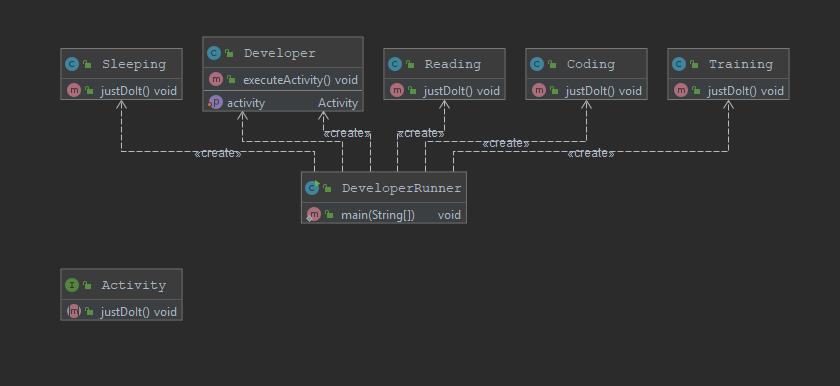
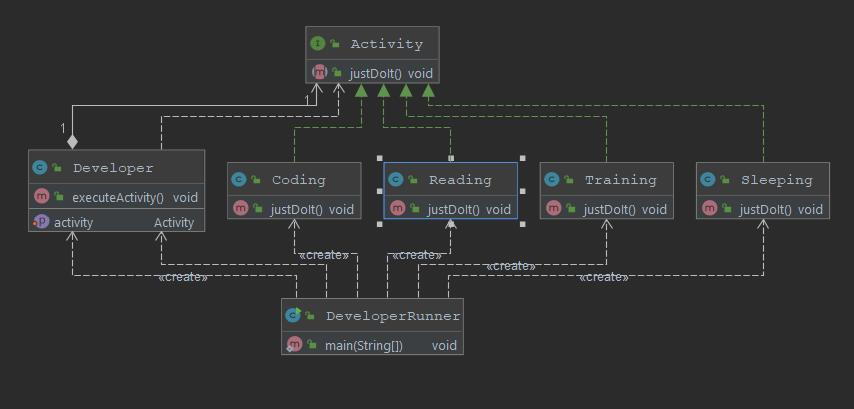
strategy refactor

diff --git a/src/main/java/info/vladyslav/codeLibrary/u01core/core_09_jfc/jfc_01_swing/swing_01_callback/SomeClass.java b/src/main/java/info/vladyslav/codeLibrary/u01core/core_09_jfc/jfc_01_swing/swing_01_callback/SomeClass.java
@@ -1,0 +1,23 @@
+package info.vladyslav.codeLibrary.u01core.core_09_jfc.jfc_01_swing.swing_01_callback;
+
+import javax.swing.*;
+
+public class SomeClass {
+    // создаем колбек и его метод
+    interface Callback{
+        void callingBack();
+    }
+
+    Callback callback;
+
+    public void registerCallBack(Callback callback){
+        this.callback = callback;
+    }
+
+    void doSomething(){
+        JOptionPane.showMessageDialog(null, "Выполняется работа");
+
+        // вызываем метод обратного вызова
+        callback.callingBack();
+    }
+}

diff --git a/src/main/java/info/vladyslav/codeLibrary/u01core/core_09_jfc/jfc_01_swing/swing_01_callback/Main.java b/src/main/java/info/vladyslav/codeLibrary/u01core/core_09_jfc/jfc_01_swing/swing_01_callback/Main.java
@@ -1,0 +1,12 @@
+package info.vladyslav.codeLibrary.u01core.core_09_jfc.jfc_01_swing.swing_01_callback;
+
+public class Main {
+    public static void main(String[] args) {
+
+        SomeClass someClass = new SomeClass();
+        MyClass myClass = new MyClass();
+
+        someClass.registerCallBack(myClass);
+        someClass.doSomething();
+    }
+}

diff --git a/src/main/java/info/vladyslav/codeLibrary/u01core/core_09_jfc/jfc_01_swing/swing_01_callback/MyClass.java b/src/main/java/info/vladyslav/codeLibrary/u01core/core_09_jfc/jfc_01_swing/swing_01_callback/MyClass.java
@@ -1,0 +1,8 @@
+package info.vladyslav.codeLibrary.u01core.core_09_jfc.jfc_01_swing.swing_01_callback;
+
+public class MyClass implements SomeClass.Callback {
+    @Override
+    public void callingBack() {
+        System.out.println("Вызов метода обратного вызова");
+    }
+}

diff --git a/src/main/java/info/vladyslav/codeLibrary/u04patterns/gof_3_behavioral/beh09strategy/Developer.java b/src/main/java/info/vladyslav/codeLibrary/u04patterns/gof_3_behavioral/beh09strategy/Developer.java
@@ -1,7 +1,7 @@
 package info.vladyslav.codeLibrary.u04patterns.gof_3_behavioral.beh09strategy;
 
 public class Developer {
-    Activity activity;
+    private Activity activity;
 
     public void setActivity(Activity activity) {
         this.activity = activity;
